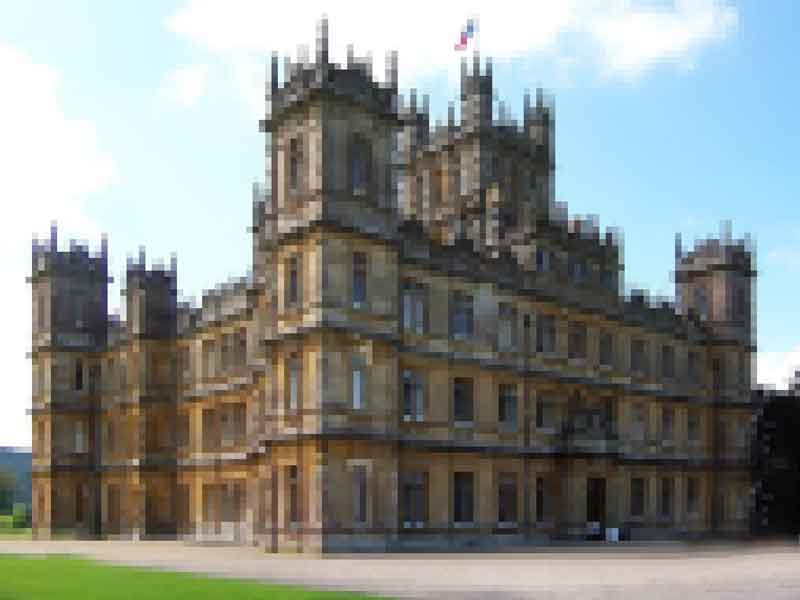
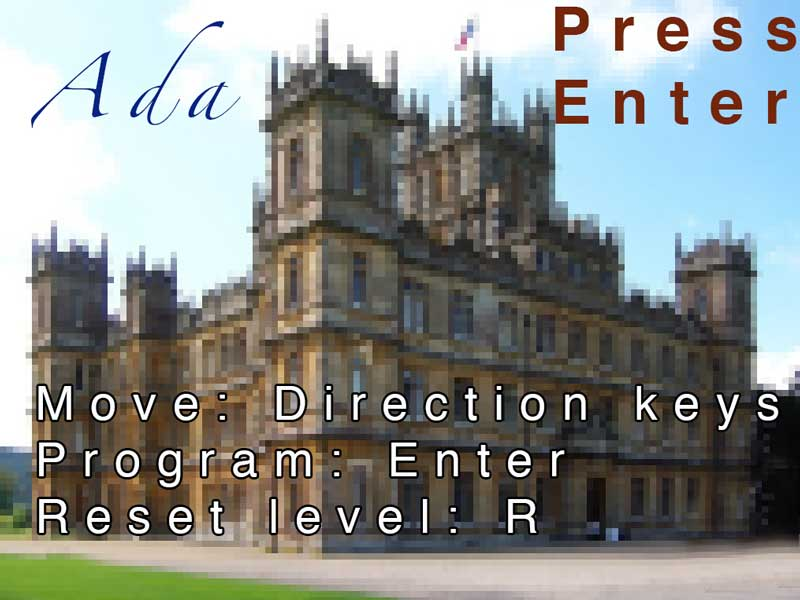
added intro screen, game states, repositioned and resized exit door

diff --git a/js/ada.js b/js/ada.js
@@ -1,19 +1,6 @@
 
 
-var game = new Phaser.Game(800, 600, Phaser.AUTO, '', { preload: preload, create: create, update: update });
-
-function preload() {
-
-    game.load.image('estate', 'assets/estate-1.png');
-    game.load.image('ground', 'assets/platform.png');
-    game.load.image('introScreen', 'assets/intro-exterior.jpg');
-    //game.load.spritesheet('dude', 'assets/dude.png', 32, 48);
-	game.load.image('ada', 'assets/ada.png');
-	game.load.image('punchcard', 'assets/punchcard.png');
-	game.load.image('ivo', 'assets/ivo.png');
-	game.load.image('exitDoor','assets/blue-door.png');
-
-}
+var game = new Phaser.Game(800, 600, Phaser.AUTO, '');
 
 var player;
 var platforms;
@@ -27,157 +14,164 @@ var punchcards;
 var score = 0;
 var scoreText;
 
-function create() {
-    //  We're going to be using physics, so enable the Arcade Physics system
-    game.physics.startSystem(Phaser.Physics.ARCADE);
+var mainState = {
 
-    //  A simple background for our game
-    game.add.sprite(0, 0, 'estate');
+    preload: function() {
+    game.load.image('library', 'assets/library.jpg');
+    game.load.image('ground', 'assets/platform.png');
+    game.load.image('introScreen', 'assets/intro-exterior.jpg');
+    //game.load.spritesheet('dude', 'assets/dude.png', 32, 48);
+	game.load.image('ada', 'assets/ada.png');
+	game.load.image('punchcard', 'assets/punchcard.png');
+	game.load.image('ivo', 'assets/ivo.png');
+	game.load.image('exitDoor','assets/blue-door.png');
 
-    //  The platforms group contains the ground and the 2 ledges we can jump on
-    platforms = game.add.group();
+	},
 
-    //  We will enable physics for any object that is created in this group
-    platforms.enableBody = true;
 
-    // Here we create the ground.
-    var ground = platforms.create(0, game.world.height - 64, 'ground');
+	create: function() {
+    	//  We're going to be using physics, so enable the Arcade Physics system
+    	game.physics.startSystem(Phaser.Physics.ARCADE);
 
-    //  Scale it to fit the width of the game (the original sprite is 400x32 in size)
-    ground.scale.setTo(2, 2);
+    	//  A simple background for our game
+    	game.add.sprite(0, 0, 'library');
 
-    //  This stops it from falling away when you jump on it
-    ground.body.immovable = true;
-	doors=game.add.group();
-	doors.enableBody=true;
-	var exitDoor = doors.create(700, game.world.height - 230, 'exitDoor');
-	//exitDoor.scale.setTo(2,2);
+    	//  The platforms group contains the ground and the 2 ledges we can jump on
+    	platforms = game.add.group();
+
+		//  We will enable physics for any object that is created in this group
+		platforms.enableBody = true;
 	
-	exitDoor.body.immovable=true;
+		// Here we create the ground.
+		var ground = platforms.create(0, game.world.height - 64, 'ground');
 	
+		//  Scale it to fit the width of the game (the original sprite is 400x32 in size)
+		ground.scale.setTo(2, 2);
+	
+		//  This stops it from falling away when you jump on it
+		ground.body.immovable = true;
+		doors=game.add.group();
+		doors.enableBody=true;
+		var exitDoor = doors.create(780, game.world.height - 130, 'exitDoor');
+		//exitDoor.scale.setTo(2,2);
 		
-    //  Now let's create two ledges
-    //var ledge = platforms.create(400, 400, 'ground');
-    //ledge.body.immovable = true;
-
-    //ledge = platforms.create(-150, 250, 'ground');
-    //ledge.body.immovable = true;
-
-    // The player and its settings
-    player = game.add.sprite(32, game.world.height - 150, 'ada');
-	machine = game.add.sprite(400, game.world.height - 113, 'ivo');
+		exitDoor.body.immovable=true;
+		
+			
+		//  Now let's create two ledges
+		//var ledge = platforms.create(400, 400, 'ground');
+		//ledge.body.immovable = true;
 	
-	game.physics.arcade.enable(machine);
-    //  We need to enable physics on the player
-    game.physics.arcade.enable(player);
-
-    //  Player physics properties. Give the little guy a slight bounce.
-    player.body.bounce.y = 0.2;
-    player.body.gravity.y = gravity;
-    player.body.collideWorldBounds = true;
-	//machine.body.bounce.y=0.2;
-	//machine.body.gravity.y=gravity;
-	machine.body.collideWorldBounds = true;
-	machine.body.immovable = true;
-	//TODO: When Ivo moves, set immovable false, and give it gravity.
+		//ledge = platforms.create(-150, 250, 'ground');
+		//ledge.body.immovable = true;
 	
-    //  Our two animations, walking left and right.
-    //player.animations.add('left', [0, 1, 2, 3], 10, true);
-    //player.animations.add('right', [5, 6, 7, 8], 10, true);
-/*Original stars, commented out and replaced with punchcards.
-    //  Finally some stars to collect
-    stars = game.add.group();
-
-    //  We will enable physics for any star that is created in this group
-    stars.enableBody = true;
-
-    //  Here we'll create 12 of them evenly spaced apart
-    for (var i = 0; i < 12; i++)
-    {
-        //  Create a star inside of the 'stars' group
-        var star = stars.create(i * 70, 0, 'star');
-
-        //  Let gravity do its thing
-        star.body.gravity.y = 300;
-
-        //  This just gives each star a slightly random bounce value
-        star.body.bounce.y = 0.7 + Math.random() * 0.2;
-    }*/
-	//  Finally some stars to collect
-    punchcards = game.add.group();
-
-    //  We will enable physics for any star that is created in this group
-    punchcards.enableBody = true;
-	var punchcard=punchcards.create(600, 400, 'punchcard');
-	punchcard.body.gravity.y = 300;
-	punchcard.body.bounce.y=0.3;
+		// The player and its settings
+		player = game.add.sprite(32, game.world.height - 150, 'ada');
+		machine = game.add.sprite(400, game.world.height - 113, 'ivo');
+		
+		game.physics.arcade.enable(machine);
+		//  We need to enable physics on the player
+		game.physics.arcade.enable(player);
 	
-    //  Here we'll create 12 of them evenly spaced apart
-    /*for (var i = 0; i < 12; i++)
-    {
-        //  Create a star inside of the 'stars' group
-        var punchcard = punchcards.create(i * 70, 0, 'punchcard');
+		//  Player physics properties. Give the little guy a slight bounce.
+		player.body.bounce.y = 0.2;
+		player.body.gravity.y = gravity;
+		player.body.collideWorldBounds = true;
+		//machine.body.bounce.y=0.2;
+		//machine.body.gravity.y=gravity;
+		machine.body.collideWorldBounds = true;
+		machine.body.immovable = true;
+		//TODO: When Ivo moves, set immovable false, and give it gravity.
 
-        //  Let gravity do its thing
-        punchcard.body.gravity.y = 300;
+		punchcards = game.add.group();
+		punchcards.enableBody = true;
+		var punchcard=punchcards.create(600, 400, 'punchcard');
+		punchcard.body.gravity.y = 300;
+		punchcard.body.bounce.y=0.3;
+		
+		//  Here we'll create 12 of them evenly spaced apart
+		/*for (var i = 0; i < 12; i++)
+		{
+			//  Create a star inside of the 'stars' group
+			var punchcard = punchcards.create(i * 70, 0, 'punchcard');
+	
+			//  Let gravity do its thing
+			punchcard.body.gravity.y = 300;
+	
+			//  This just gives each star a slightly random bounce value
+			punchcard.body.bounce.y = 0.7 + Math.random() * 0.2;
+		}*/
+		
+		
+		
+		//  The score
+		scoreText = game.add.text(16, 16, 'score: 0', { fontSize: '32px', fill: '#000' });
+	
+		//  Our controls.
+		cursors = game.input.keyboard.createCursorKeys();		
+	},
+	
+	update: function() {
+	
+		//  Collide the player and the stars with the platforms
+		game.physics.arcade.collide(player, platforms);
+		game.physics.arcade.collide(player, doors);
+		game.physics.arcade.collide(punchcards, platforms);
+		game.physics.arcade.collide(machine, platforms);
+		game.physics.arcade.collide(player, machine,inputCode, null, this);
+		//  Checks to see if the player overlaps with any of the stars, if he does call the collectStar function
+		game.physics.arcade.overlap(player, punchcards, collectPunchcard, null, this);
+		
+		//  Reset the players velocity (movement)
+		player.body.velocity.x = 0;
+	
+		if (cursors.left.isDown)
+		{
+			//  Move to the left
+			player.body.velocity.x = -250;
+	
+			//player.animations.play('left');
+		}
+		else if (cursors.right.isDown)
+		{
+			//  Move to the right
+			player.body.velocity.x = 250;
+	
+			//player.animations.play('right');
+		}
+		else
+		{
+			//  Stand still
+			player.animations.stop();
+	
+			//player.frame = 4;
+		}
+		
+		//  Allow the player to jump if they are touching the ground.
+		if (cursors.up.isDown && player.body.touching.down)
+		{
+			player.body.velocity.y = -450;
+		}
 
-        //  This just gives each star a slightly random bounce value
-        punchcard.body.bounce.y = 0.7 + Math.random() * 0.2;
-    }*/
-	
-	
-	
-    //  The score
-    scoreText = game.add.text(16, 16, 'score: 0', { fontSize: '32px', fill: '#000' });
-
-    //  Our controls.
-    cursors = game.input.keyboard.createCursorKeys();
-    
+	}
 }
+var menuState = {
+		preload : function(){
+			game.load.image('introScreen', 'assets/intro-exterior.jpg');
+		},
 
-function update() {
+		create : function(){
+			game.add.sprite(0, 0, 'introScreen');
+		},
 
-    //  Collide the player and the stars with the platforms
-    game.physics.arcade.collide(player, platforms);
-	game.physics.arcade.collide(player, doors);
-    game.physics.arcade.collide(punchcards, platforms);
-	game.physics.arcade.collide(machine, platforms);
-	game.physics.arcade.collide(player, machine,inputCode, null, this);
-    //  Checks to see if the player overlaps with any of the stars, if he does call the collectStar function
-    game.physics.arcade.overlap(player, punchcards, collectPunchcard, null, this);
-	
-    //  Reset the players velocity (movement)
-    player.body.velocity.x = 0;
-
-    if (cursors.left.isDown)
-    {
-        //  Move to the left
-        player.body.velocity.x = -250;
-
-        //player.animations.play('left');
-    }
-    else if (cursors.right.isDown)
-    {
-        //  Move to the right
-        player.body.velocity.x = 250;
-
-        //player.animations.play('right');
-    }
-    else
-    {
-        //  Stand still
-        player.animations.stop();
-
-        //player.frame = 4;
-    }
-    
-    //  Allow the player to jump if they are touching the ground.
-    if (cursors.up.isDown && player.body.touching.down)
-    {
-        player.body.velocity.y = -450;
-    }
-
-}
+		update : function(){
+			if(this.game.input.keyboard.isDown(Phaser.Keyboard.ENTER))
+				this.game.state.start('main');
+		}
+	}
+game.state.add('main', mainState); 
+game.state.add('menu', menuState); 
+game.state.start('menu'); 
 
 function collectPunchcard (player, punchcard) {
     punchcard.kill();
